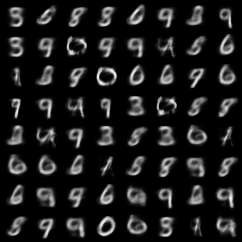
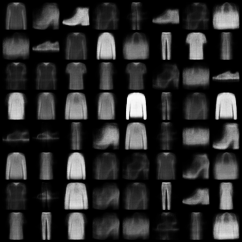
VAE for Fashion MNIST with PyTorch

diff --git a/main.py b/main.py
@@ -18,8 +18,8 @@ parser = argparse.ArgumentParser(
     description="PyTorch implementation of VAE for MNIST")
 parser.add_argument('--batch-size', type=int, default=128,
                     help='batch size for training (default: 128)')
-parser.add_argument('--epochs', type=int, default=80,
-                    help='number of epochs to train (default: 80)')
+parser.add_argument('--epochs', type=int, default=20,
+                    help='number of epochs to train (default: 20)')
 parser.add_argument('--z-dim', type=int, default=2,
                     help='dimension of hidden variable Z (default: 2)')
 parser.add_argument('--log-interval', type=int, default=100,
@@ -53,9 +53,9 @@ device = torch.device('cuda' if torch.cuda.is_available() else 'cpu')
 
 
 # --- data loading --- #
-train_data = datasets.MNIST('./data', train=True, download=True,
+train_data = datasets.FashionMNIST('./data', train=True, download=True,
                             transform=transforms.ToTensor())
-test_data = datasets.MNIST('./data', train=False,
+test_data = datasets.FashionMNIST('./data', train=False,
                            transform=transforms.ToTensor())
 
 # pin memory provides improved transfer speed

diff --git a/README.md b/README.md
@@ -1,5 +1,5 @@
-# Variational Auto-Encoder(VAE) for MNIST
-PyTorch implementation of VAE for MNIST
+# Variational Auto-Encoder(VAE) for Fashion MNIST
+PyTorch implementation of VAE for Fashion MNIST
 
 ## Description
 This code is written for practice. It's almost as same as PyTorch's official example(check the reference below).
@@ -14,9 +14,9 @@ The following results are made with the default setting. (command: python main.p
 <td> Manifold(num of z = 2) </td>
 </tr>
 <tr>
-<td><img src = 'results/reconstruction_80.png' width = '300px'>
-<td><img src = 'results/sample_80.png' width = '300px'>
-<td><img src = 'results/plot_along_z1_and_z2_axis_80.png' width = '300px'>
+<td><img src = 'results/reconstruction_20.png' width = '300px'>
+<td><img src = 'results/sample_20.png' width = '300px'>
+<td><img src = 'results/plot_along_z1_and_z2_axis_20.png' width = '300px'>
 </tr>
 </table>
 
